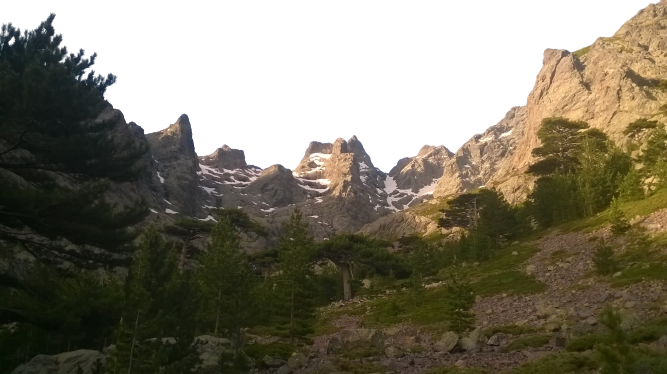
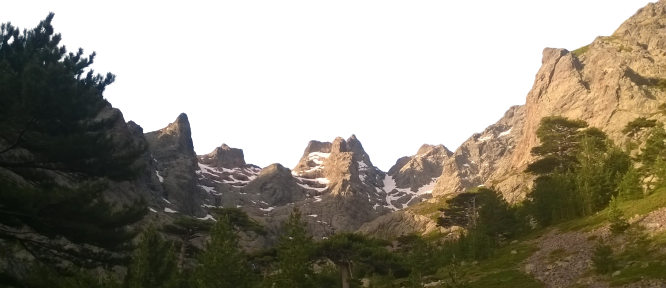
Day 44: Personal Website (Lorem Ipsum Text)

diff --git a/day-44-CSS_my_site/css/styles.css b/day-44-CSS_my_site/css/styles.css
@@ -5,28 +5,188 @@ div {
 body {
     margin: 0;
     text-align: center;
+    font-family: 'Montserrat', sans-serif;
+}
+
+hr {
+    border-style: none;
+    border-top-style: dotted;
+    width: 6%;
+    border-color: #567189;
+    border-width: 5px;
+    margin-top: 12px;
+    margin-bottom: 12px;
 }
 
 h1 {
-    margin-top: 0;
-    padding: 20px;
+    margin-top: 0px;
+    padding: 80px;
+    font-family: 'Shadows Into Light', cursive;
+    font-size: 444%;
+    color: #13005A;
     /* 4 values: margin top right bottom left
        2 values: margin top/bottom right/left */
     /*
     width: 10%;
+    font-size: 4.44rem;
     margin: 0 auto 0 auto;
     */
 }
+
+h2 {
+    margin-top: 10px;
+    margin-bottom: 0;
+    padding: 0px;
+    font-size: 2.0rem;
+    font-family: 'Merriweather', serif;
+    color: #13005A;
+    font-weight: normal;
+    line-height: 2;
+}
+
 h3 {
     margin-top: 0;
-    padding: 20px;
+    margin-bottom: 0;
+    padding: 10px;
+    font-family: 'Merriweather', serif;
+    color: #13005A;
+    font-weight: normal;
+}
+
+p {
+    line-height: 1.5;
+    padding-top: 10px;
+    margin-top: 0;
+    }
+
+a {
+    color: #11999E
+}
+
+a:hover {
+    color: #FFF8E1;
+}
+.name {
+    padding-top: 80px;
+    padding-bottom: 10px;
 }
 
 .mountain_image {
-    width : 100%;
+    width: 100%;
     z-index: 0;
+    padding-top: 0;
+    mask-image: linear-gradient(to bottom, rgba(0,0,0,0.65) 60%,rgba(0,0,0,0) 0%);
+    -webkit-mask-image: linear-gradient(to bottom, rgba(0,0,0,1) 60%,rgba(0,0,0,0) 100%);
+    bottom:120px;
+    position: relative;
+    }
+.mountain_box {
+    position: relative;
+}
+.profile_picture {
+    width: 23%;
+    border: 0.5px solid #13005A;
+    border-radius: 50%;
+    background-color: #F1F7B5;
     }
 
-.center {
-    text-align: center;
+.profile {
+   padding: 10px;
+   }
+
+.intro_text {
+    width: 40%;
+    margin: auto;
+    padding-bottom: 10px;
+    }
+
+.skill_ska_img {
+    width: 7.0rem;
+    float: left;
+    margin-right: 20px;
+    padding-bottom: 10px;
+    }
+
+.skill_hike_img {
+    width: 7.0rem;
+    float: right;
+    margin-left: 20px;
+    padding-bottom: 10px;
+    }
+
+.skill-row {
+    width: 50%;
+    margin: 20px auto;
+    text-align: left;
+    padding-bottom: 10px;
+    }
+
+.middle_container {
+    padding-bottom: 30px;
+    position: relative;
+    bottom: 100px;
 }
+.bottom_container {
+    background-color: #9DF1DF;
+    padding-top: 20px;
+    padding-bottom: 10px;
+    position: relative;
+    bottom: 100px;
+}
+
+.footer_link {
+    padding: 10px;
+}
+
+.btn {
+  background: #11cdd4;
+  background-image: -webkit-linear-gradient(top, #11cdd4, #11999e);
+  background-image: -moz-linear-gradient(top, #11cdd4, #11999e);
+  background-image: -ms-linear-gradient(top, #11cdd4, #11999e);
+  background-image: -o-linear-gradient(top, #11cdd4, #11999e);
+  background-image: linear-gradient(to bottom, #11cdd4, #11999e);
+  -webkit-border-radius: 16;
+  -moz-border-radius: 16;
+  border-radius: 16px;
+  font-family: 'Montserrat', sans-serif;
+  color: #E3F6FF;
+  font-weight: bold;
+  font-size: 15px;
+  padding: 8px 16px 8px 16px;
+  text-decoration: none;
+}
+
+.btn:hover {
+  background: #9DF1DF;
+  background-image: -webkit-linear-gradient(top, #9DF1DF, #2bc4ad);
+  background-image: -moz-linear-gradient(top, #9DF1DF, #2bc4ad);
+  background-image: -ms-linear-gradient(top, #9DF1DF, #2bc4ad);
+  background-image: -o-linear-gradient(top, #9DF1DF, #2bc4ad);
+  background-image: linear-gradient(to bottom, #9DF1DF, #2bc4ad);
+  text-decoration: none;
+}
+
+.contact_message{
+    width: 40%;
+    margin: auto;
+    padding-bottom: 30px;
+    }
+
+.copyright {
+    color: #FFF8E1;
+    font-size: 0.75rem;
+    padding-bottom: 0px;
+    margin-bottom: 0px;
+}
+/*
+.sticky-image-wrapper{
+    position: fixed;
+    bottom: 0;
+    width: 100%;
+    }
+
+.sticky-image-wrapper img{
+     display: table;
+     position: relative;
+     margin: auto;
+} */

diff --git a/day-44-CSS_my_site/index.html b/day-44-CSS_my_site/index.html
@@ -8,13 +8,57 @@
     <title>Daisy Duke</title>
     <link rel="stylesheet" href="css/styles.css">
     <link rel="icon" href="rotmilan.ico">
+    <link rel="preconnect" href="https://fonts.googleapis.com">
+    <link rel="preconnect" href="https://fonts.gstatic.com" crossorigin>
+    <link href="https://fonts.googleapis.com/css2?family=Merriweather&family=Montserrat&family=Shadows+Into+Light&display=swap"
+          rel="stylesheet">
     
 </head>
 <body>
     <div class="">
-        <h1 class="center" >Jakob "Daisy" Timmermann</h1>
-        <h3 class="center"> - Protokollant - </h3>
-        <img class="mountain_image" src="images/mountains.png" alt="mountain_img">
+        <div class="mountain_box">
+            <h1 class="name" >Jakob "Daisy" Timmermann</h1>
+            <h2 class=""> - Der Protokollant - </h2>
+            <img class="mountain_image" src="images/mountains.png" alt="mountain_img">
+        </div>
+    </div>
+    <div class="middle_container">
+        <div class="profile">
+            <img class="profile_picture" src="images/Daisy.png" alt="Protokollant_img">
+            <h2>Hello.</h2>
+            <p class="intro_text">Lorem ipsum dolor sit amet, vitae volutpat, dui conubia, dolor urna. Non auctor. Lorem ipsum dolor sit amet, vitae volutpat, dui conubia montes nulla distinctio.</p>
+        </div>
+        <hr>
+        <div class="skills">
+            <h2>My Skills.</h2>
+            <div class="skill-row">
+                <img class="skill_ska_img" src="images/skanking.png" alt="">
+                <h3>Lorem & Ipsum</h3>
+                <p>Lorem ipsum dolor sit amet, quis in duis, iaculis id felis. Consectetuer vestibulum, nunc urna lectus, erat ligula. Hendrerit nam, lectus ante, ut lorem eros.</p>
+            </div>
+            <div class="skill-row">
+                <img class="skill_hike_img" src="https://media2.giphy.com/media/WTcwEaMp1ZTuguRgqp/giphy.gif?cid=ecf05e47yi12rofistl0edmzmz3ovlkt9t92x1ug51ebykv7&rid=giphy.gif&ct=s " alt="">
+                <h3>Lorem & Ipsum</h3>
+                <p>Lorem ipsum dolor sit amet, quis in duis, iaculis id felis. Consectetuer vestibulum, nunc urna lectus, erat ligula. Hendrerit nam, lectus ante, ut lorem eros.</p>
+            </div>
+        </div>
+        <hr>
+        <div class="contact_me">
+            <h2>Get In Touch</h2>
+            <h3>Lorem ipsum dolor sit amet, non elit.</h3>
+            <p class="contact_message">Lorem ipsum dolor sit amet, in quis, aenean amet. Phasellus sodales, tellus donec dui, ornare erat.</p>
+            <a class="btn" href="jakob.ch.timmermann@gmail.com">CONTACT ME</a>
+        </div>
+    </div>
+    
+    
+    <div class="bottom_container">
+        <a class="footer_link" href="https://www.youtube.com/watch?v=d0horJw3lho">YouTube</a>
+        <a class="footer_link" href="https://open.spotify.com/artist/4I9mkLzFaR7M7I3LEhnOHG?si=AxIv0tg1Qwmy_rPecdqT-A">Spotify</a>
+        <a class="footer_link" href="https://vimeo.com/781391526">BntH</a>
+<!--        <a class="footer_link" href="https://www.linkedin.com/in/jakob-timmermann/">LinkedIn</a> -->
+        <a class="footer_link" href="https://github.com/JakobTimmermann/">GitHub</a>
+        <p class="copyright" >© 2023 Timmermann Jakob.</pc>
     </div>
 </body>
 </html>
